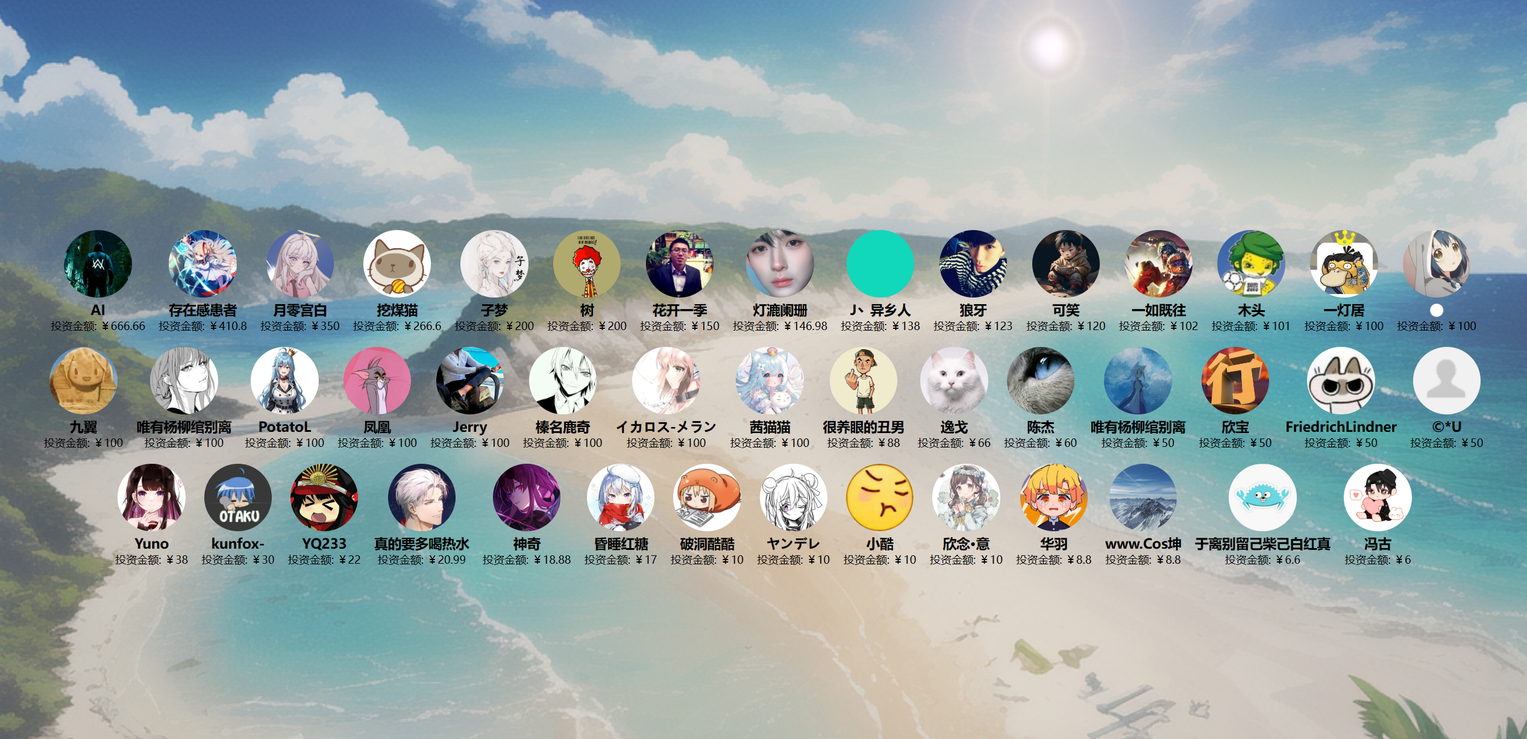
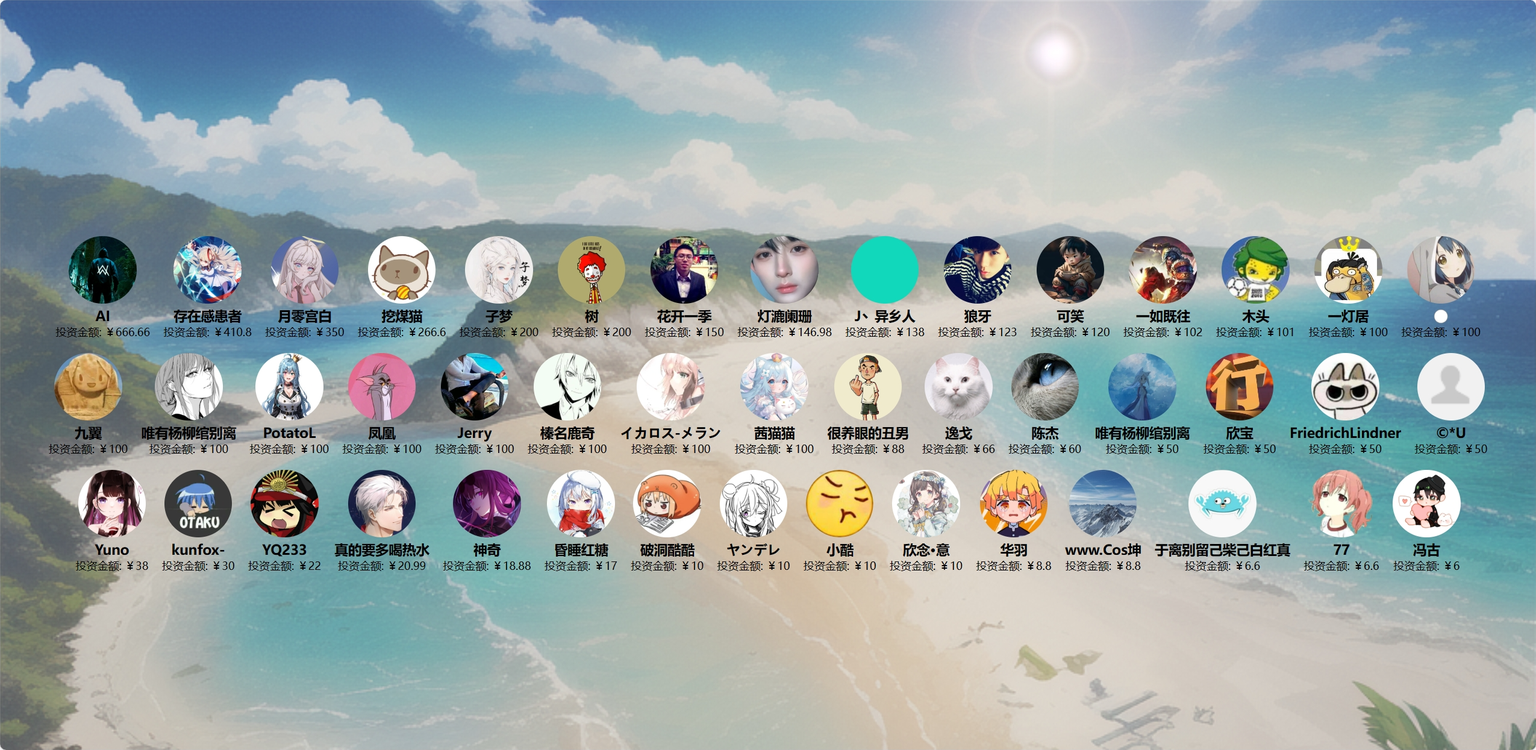
更新投资人信息

diff --git a/docs/投资人/index.html b/docs/投资人/index.html
@@ -267,6 +267,11 @@
             amount: "￥6.6"
         },
         {
+            name: "77",
+            avatar: "https://images.cnblogs.com/cnblogs_com/ikaros-521/2328032/o_231009133208_QQ%E5%9B%BE%E7%89%8720231009213136.png",
+            amount: "￥6.6"
+        },
+        {
             name: "冯古",
             avatar: "https://images.cnblogs.com/cnblogs_com/ikaros-521/2328032/o_230719074436_%E5%86%AF%E5%8F%A4.jpg",
             amount: "￥6"
